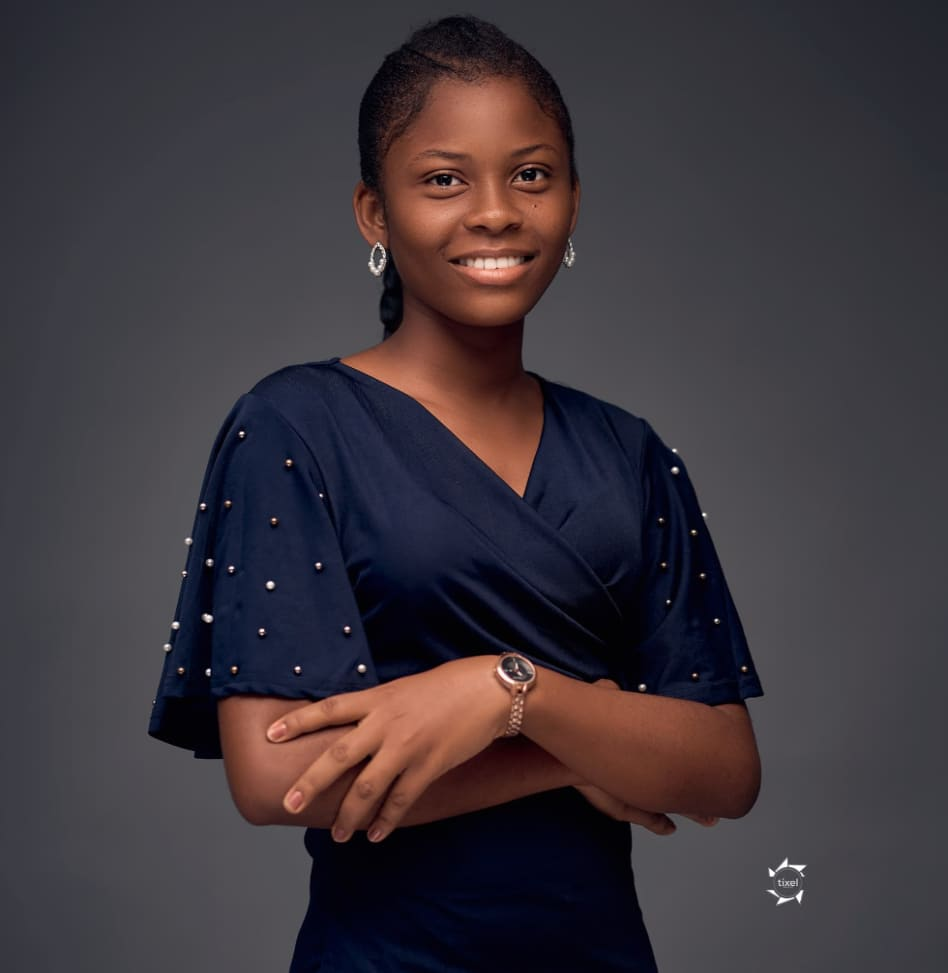
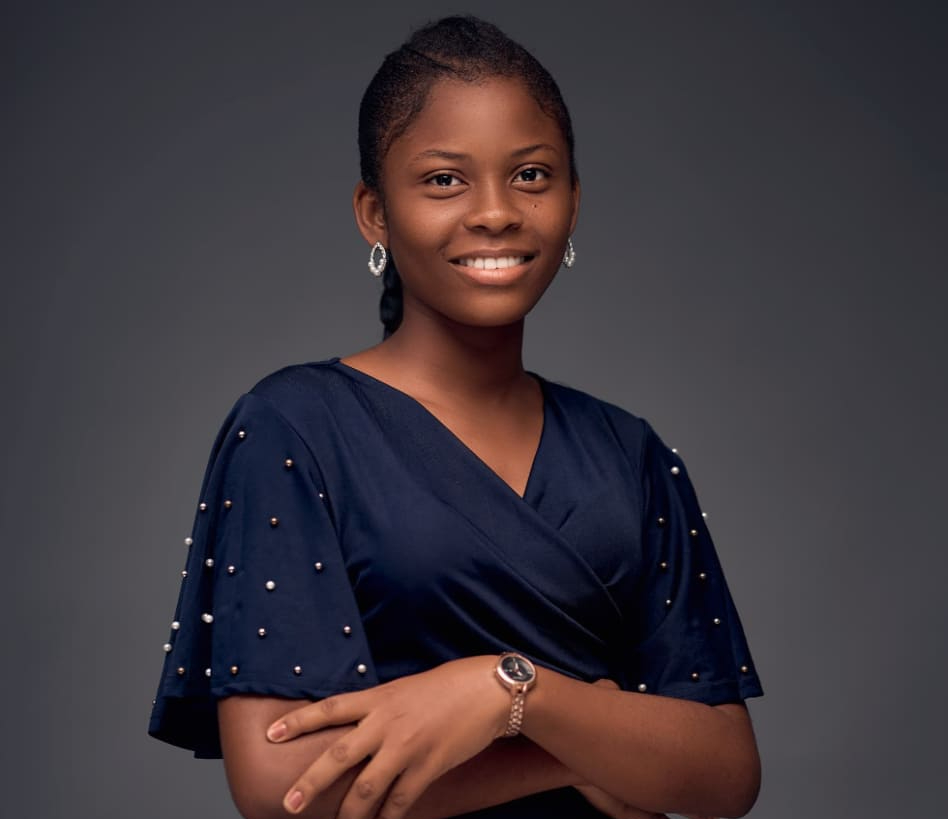
Crop team images and fix position

diff --git a/index.html b/index.html
@@ -360,20 +360,20 @@ Enlightenment and many more.</p>
 
       <div class="team-card">
         <div class="team-img-wrap">
+          <img src="./Images/Team/T_2.jpg" alt="Team member" loading="lazy">
+        </div>
+        <h4>Adedokun John</h4>
+        <p>Programs Coordinator</p>
+      </div>
+
+      <div class="team-card">
+        <div class="team-img-wrap">
           <img src="./Images/Team/T_7.jpg" alt="Team member" loading="lazy">
         </div>
         <h4>Bolaji Olatide</h4>
         <p>General Secretary</p>
         <div class="team-socials">
         </div>
-      </div>
-
-      <div class="team-card">
-        <div class="team-img-wrap">
-          <img src="./Images/Team/T_2.jpg" alt="Team member" loading="lazy">
-        </div>
-        <h4>Adedokun John</h4>
-        <p>Programs Coordinator</p>
       </div>
 
       <div class="team-card">
@@ -401,7 +401,17 @@ Enlightenment and many more.</p>
           <img src="./Images/Team/T_4.jpg" alt="Team member" loading="lazy">
         </div>
         <h4>Arifayan Taiwo</h4>
-        <p>Welfare Team Lead</p>
+        <p>Welfare & Hospitality Team Lead</p>
+        <div class="team-socials">
+        </div>
+      </div>
+
+      <div class="team-card">
+        <div class="team-img-wrap">
+          <img src="./Images/Team/T_6.jpg" alt="Team member" loading="lazy">
+        </div>
+        <h4>Bamigbade Gloria</h4>
+        <p>Welfare & Hospitality Personnel</p>
         <div class="team-socials">
         </div>
       </div>
@@ -472,16 +482,6 @@ Enlightenment and many more.</p>
         </div>
         <h4>Alade Simmiloluwa</h4>
         <p>Community Service Personnel</p>
-        <div class="team-socials">
-        </div>
-      </div>
-
-      <div class="team-card">
-        <div class="team-img-wrap">
-          <img src="./Images/Team/T_6.jpg" alt="Team member" loading="lazy">
-        </div>
-        <h4>Bamigbade Gloria</h4>
-        <p>Welfare & Hospitality Personnel</p>
         <div class="team-socials">
         </div>
       </div>
